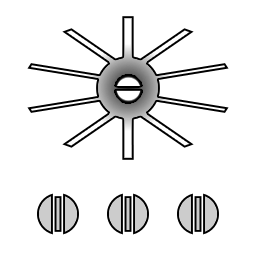
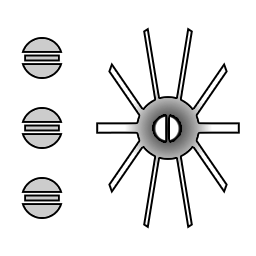
boss implemented

Changed region(s): [[0.0625, 0.0625, 0.9375, 0.9375], [0.0625, 0.6875, 0.3125, 0.9375]]

diff --git a/src/ctia/game/TestBoss.java b/src/ctia/game/TestBoss.java
@@ -1,0 +1,57 @@
+package ctia.game;
+
+import ctia.engine.core.Level;
+import ctia.engine.entity.Enemy;
+import ctia.engine.entity.Projectile;
+import ctia.game.entity.projectile.PiercingBullet;
+
+public class TestBoss extends Enemy {
+	
+	public TestBoss(Level container, double xpos, double ypos) {
+		super(container, xpos, ypos);
+		// TODO Auto-generated constructor stub
+	}
+
+	private int time;
+
+	@Override
+	public void preDt() {
+		double ppx = container.getAPlayer().getPx();
+		double ppy = container.getAPlayer().getPy();
+		
+		double dx = ppx - px;
+		double dy = ppy - py;
+		double distance = Math.sqrt(Math.pow(dx, 2) + Math.pow(dy, 2));
+
+		vx = dx / distance * 3.0;
+		vy = dy / distance * 3.0;
+
+		time++;
+		time %= 100;
+		
+		if (time % 10 == 0) {
+
+			double angle = Math.atan2(ppy - (this.py + this.sy / 2), ppx
+					- (this.px + this.sx / 2));
+			Projectile bullet0 = new PiercingBullet(this, angle - (Math.PI / 3));
+			Projectile bullet1 = new PiercingBullet(this, angle - (Math.PI / 6));
+			Projectile bullet2 = new PiercingBullet(this, angle);
+			Projectile bullet3 = new PiercingBullet(this, angle + (Math.PI / 6));
+			Projectile bullet4 = new PiercingBullet(this, angle + (Math.PI / 3));
+			container.addEntity(bullet0);
+			container.addEntity(bullet1);
+			container.addEntity(bullet2);
+			container.addEntity(bullet3);
+			container.addEntity(bullet4);
+		}
+
+		super.preDt();
+	}
+
+	@Override
+	public void resetStats() {
+		// TODO Auto-generated method stub
+		health = 100000;
+	}
+
+}

diff --git a/src/ctia/game/scene/BattleScene.java b/src/ctia/game/scene/BattleScene.java
@@ -17,6 +17,7 @@ import ctia.engine.core.Level;
 import ctia.engine.data.Settings;
 import ctia.engine.entity.Player;
 import ctia.engine.sgui.SGuiScene;
+import ctia.game.TestBoss;
 import ctia.game.entity.Hero;
 import ctia.game.entity.SpawnPoint;
 import ctia.game.entity.TestEnemy;
@@ -45,8 +46,10 @@ public class BattleScene extends SGuiScene implements KeyListener, MouseListener
 		getFrame().addKeyListener(player);
 		level.addEntity(player);
 		level.follow(player);
-		Entity enemy = new SpawnPoint(level, 400, 400);
-		level.addEntity(enemy);
+		Entity boss = new TestBoss(level, 400, 400);
+		level.addEntity(boss);
+		/*Entity enemy = new SpawnPoint(level, 400, 400);
+		level.addEntity(enemy);*/
 	}
 
 	protected void drawGui(Graphics g) {
